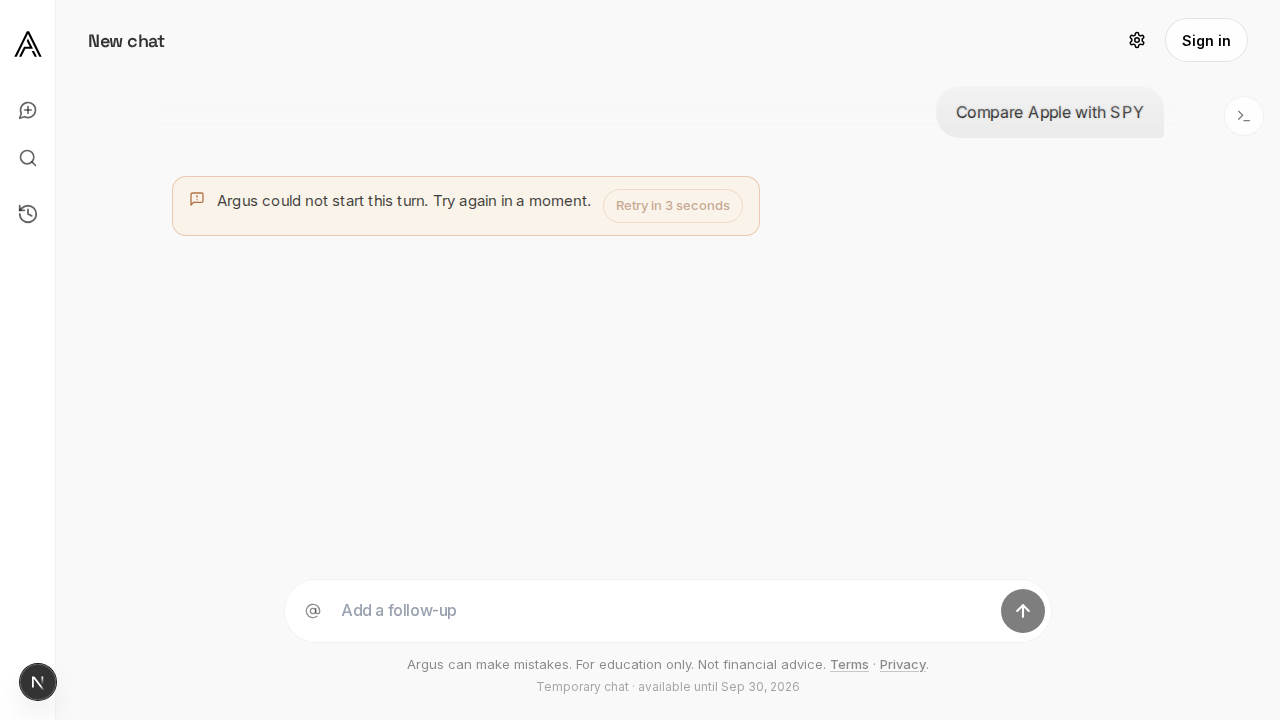
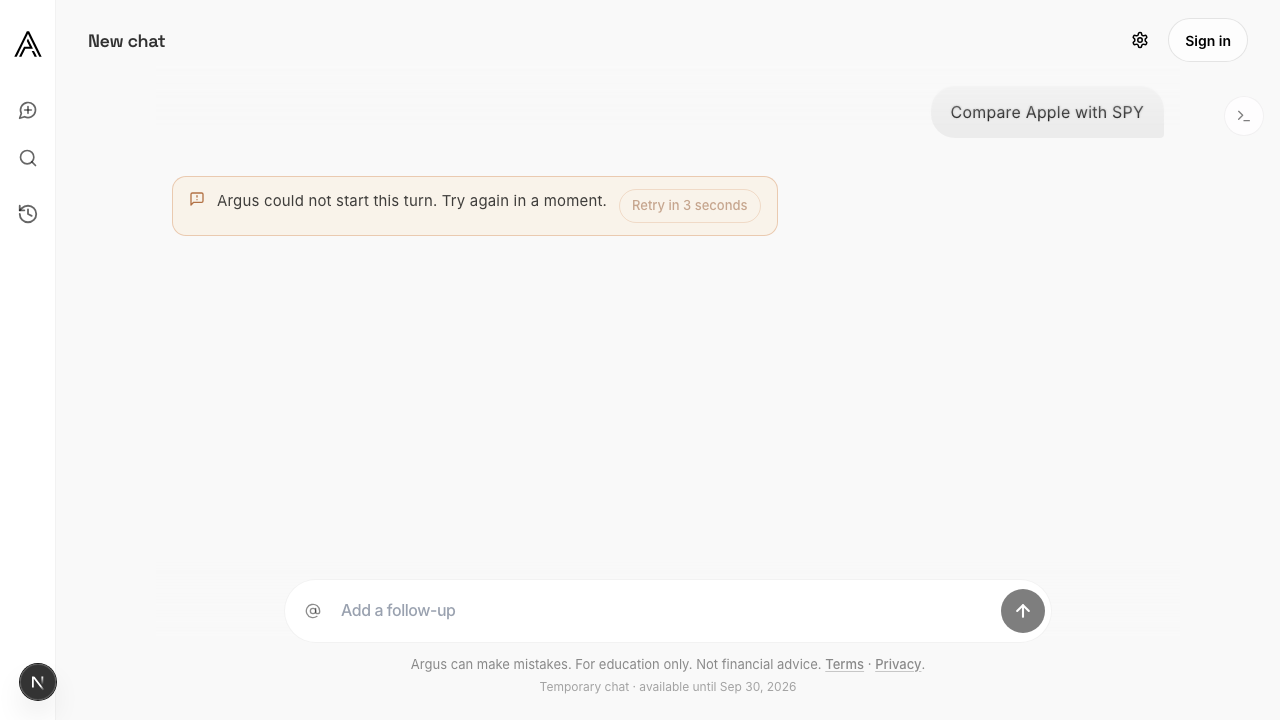
test(web): refresh guest claim recovery evidence after integration

diff --git a/docs/reports/evidence/677/README.md b/docs/reports/evidence/677/README.md
@@ -1,7 +1,9 @@
 # Issue 677 evidence
 
 Playwright captured the mocked 503 guest-claim error on
-`9fa00690` (before) and this PR head (after). The API body still says
+`9fa00690` (before). The after images were refreshed on 2026-09-26 at
+`20dffebca24f14e1a2e456dfa802f95b7bf7aeab`, after merging integration.
+The API body still says
 `Argus could not start this turn. Please try again.`; the client on this
 branch maps `guest_compute_claim_unavailable` instead of rendering that
 English detail.
@@ -15,3 +17,40 @@ A second claim 503 on Retry used to reload `GET .../messages` (empty, because
 the claim runs before the user turn is saved) and wipe the local transcript.
 `en-claim-503-retry-again.png` is the after of that path: the composed
 message, localized notice, and Retry countdown stay on the second 503.
+
+## Integration reconciliation
+
+- Original integration base: `9fa0069027dfd19e02d5ab090b2051d0dfdf7dd7`.
+- Current integration: `f7c002d940f146a027166a95b6f1d8e8aa915bd6`.
+- Merge commit: `20dffebca24f14e1a2e456dfa802f95b7bf7aeab`, preserving
+  PR head `fff96b69934ada5647c41f55d1eec8de03cc8261` as its first parent.
+- No textual conflicts. Semantic overlap is the guest compute admission
+  boundary and its HTTP error contract: #678 exposes `Retry-After` and
+  `X-Request-Id`; #699 moves the claim after conversation/replay validation
+  while retaining the pre-persistence 503 response. The frontend state owner,
+  localization keys, and retry payload are unchanged by integration.
+- Integration's registered-account counter, migration, and environment
+  variables do not change guest recovery. This PR adds no migration or flag.
+- Historical before images remain baseline evidence. Earlier after evidence
+  is replaced by the refreshed images and [local test output](./guest-compute-claim-503.txt).
+
+## Local browser verification
+
+From `web/`:
+
+```sh
+bunx playwright test e2e/guest-compute-claim-503.spec.ts --workers=1
+```
+
+Result: **3 passed (21.8s)**, no retries. The cases cover English and Spanish
+localization, disabled countdown, one user-initiated retry with the same text,
+and transcript preservation through a second 503 before success.
+
+This is local Chromium evidence using mocked HTTP and auth, with no model or
+market-data calls. It does not claim hosted-provider acceptance. The affected
+surface is transport recovery and is independent of strategy shape. The spec
+is not part of CI; CI runs only the browser-storage disclosure spec.
+
+The PR's terminal verification comment records the final head, its repeated
+browser check, backend contract checks, CI, and completed Codex review. This
+capture record is not a terminal readiness claim.
